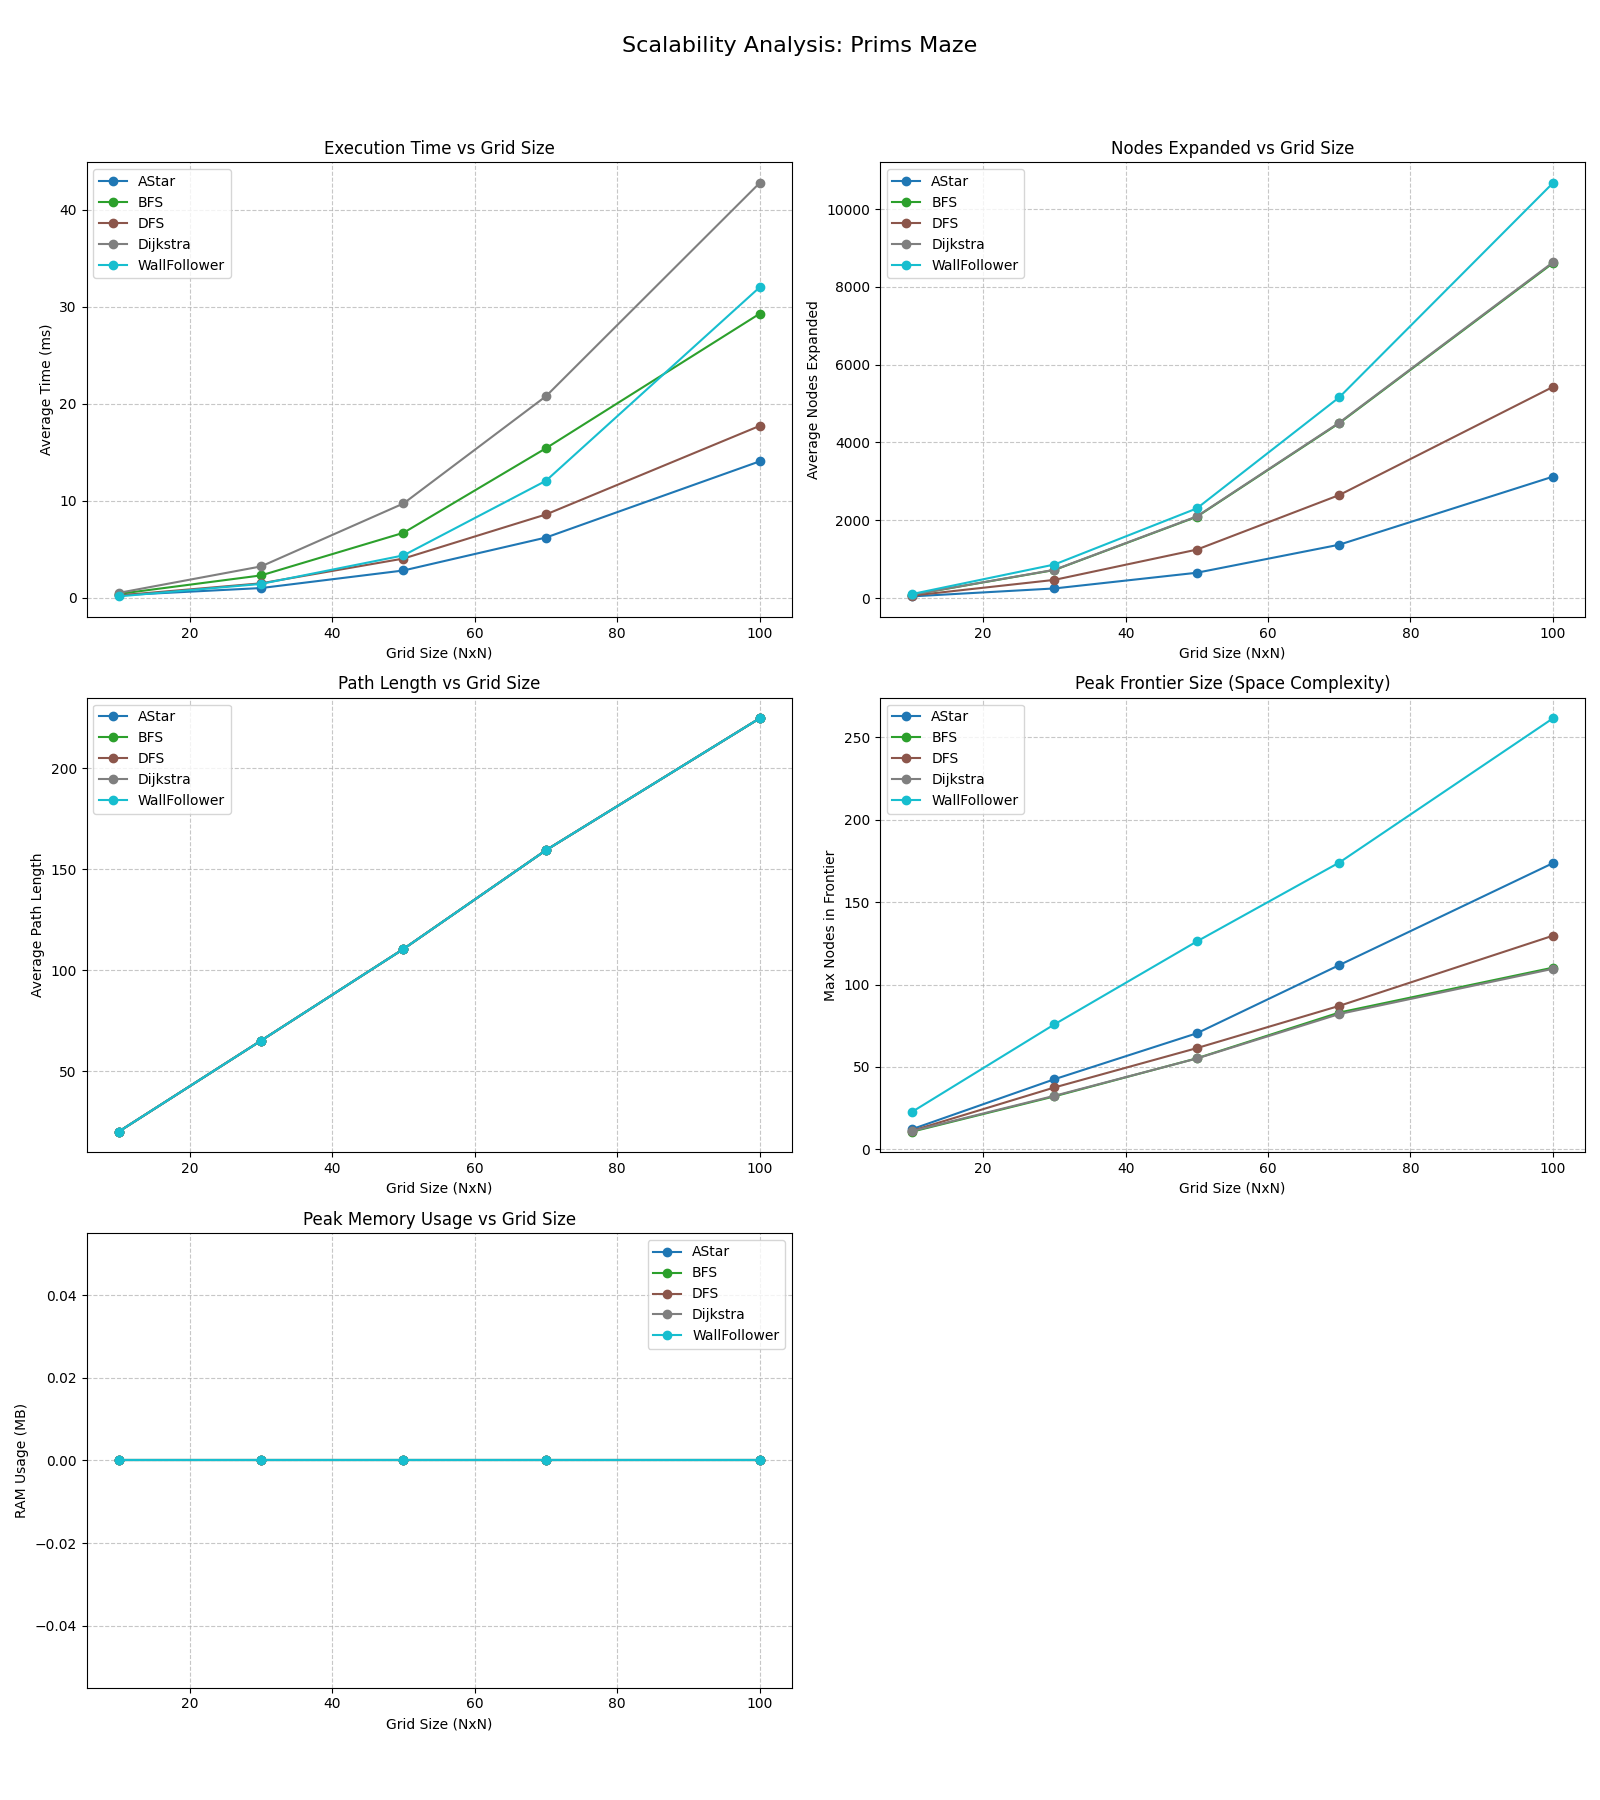
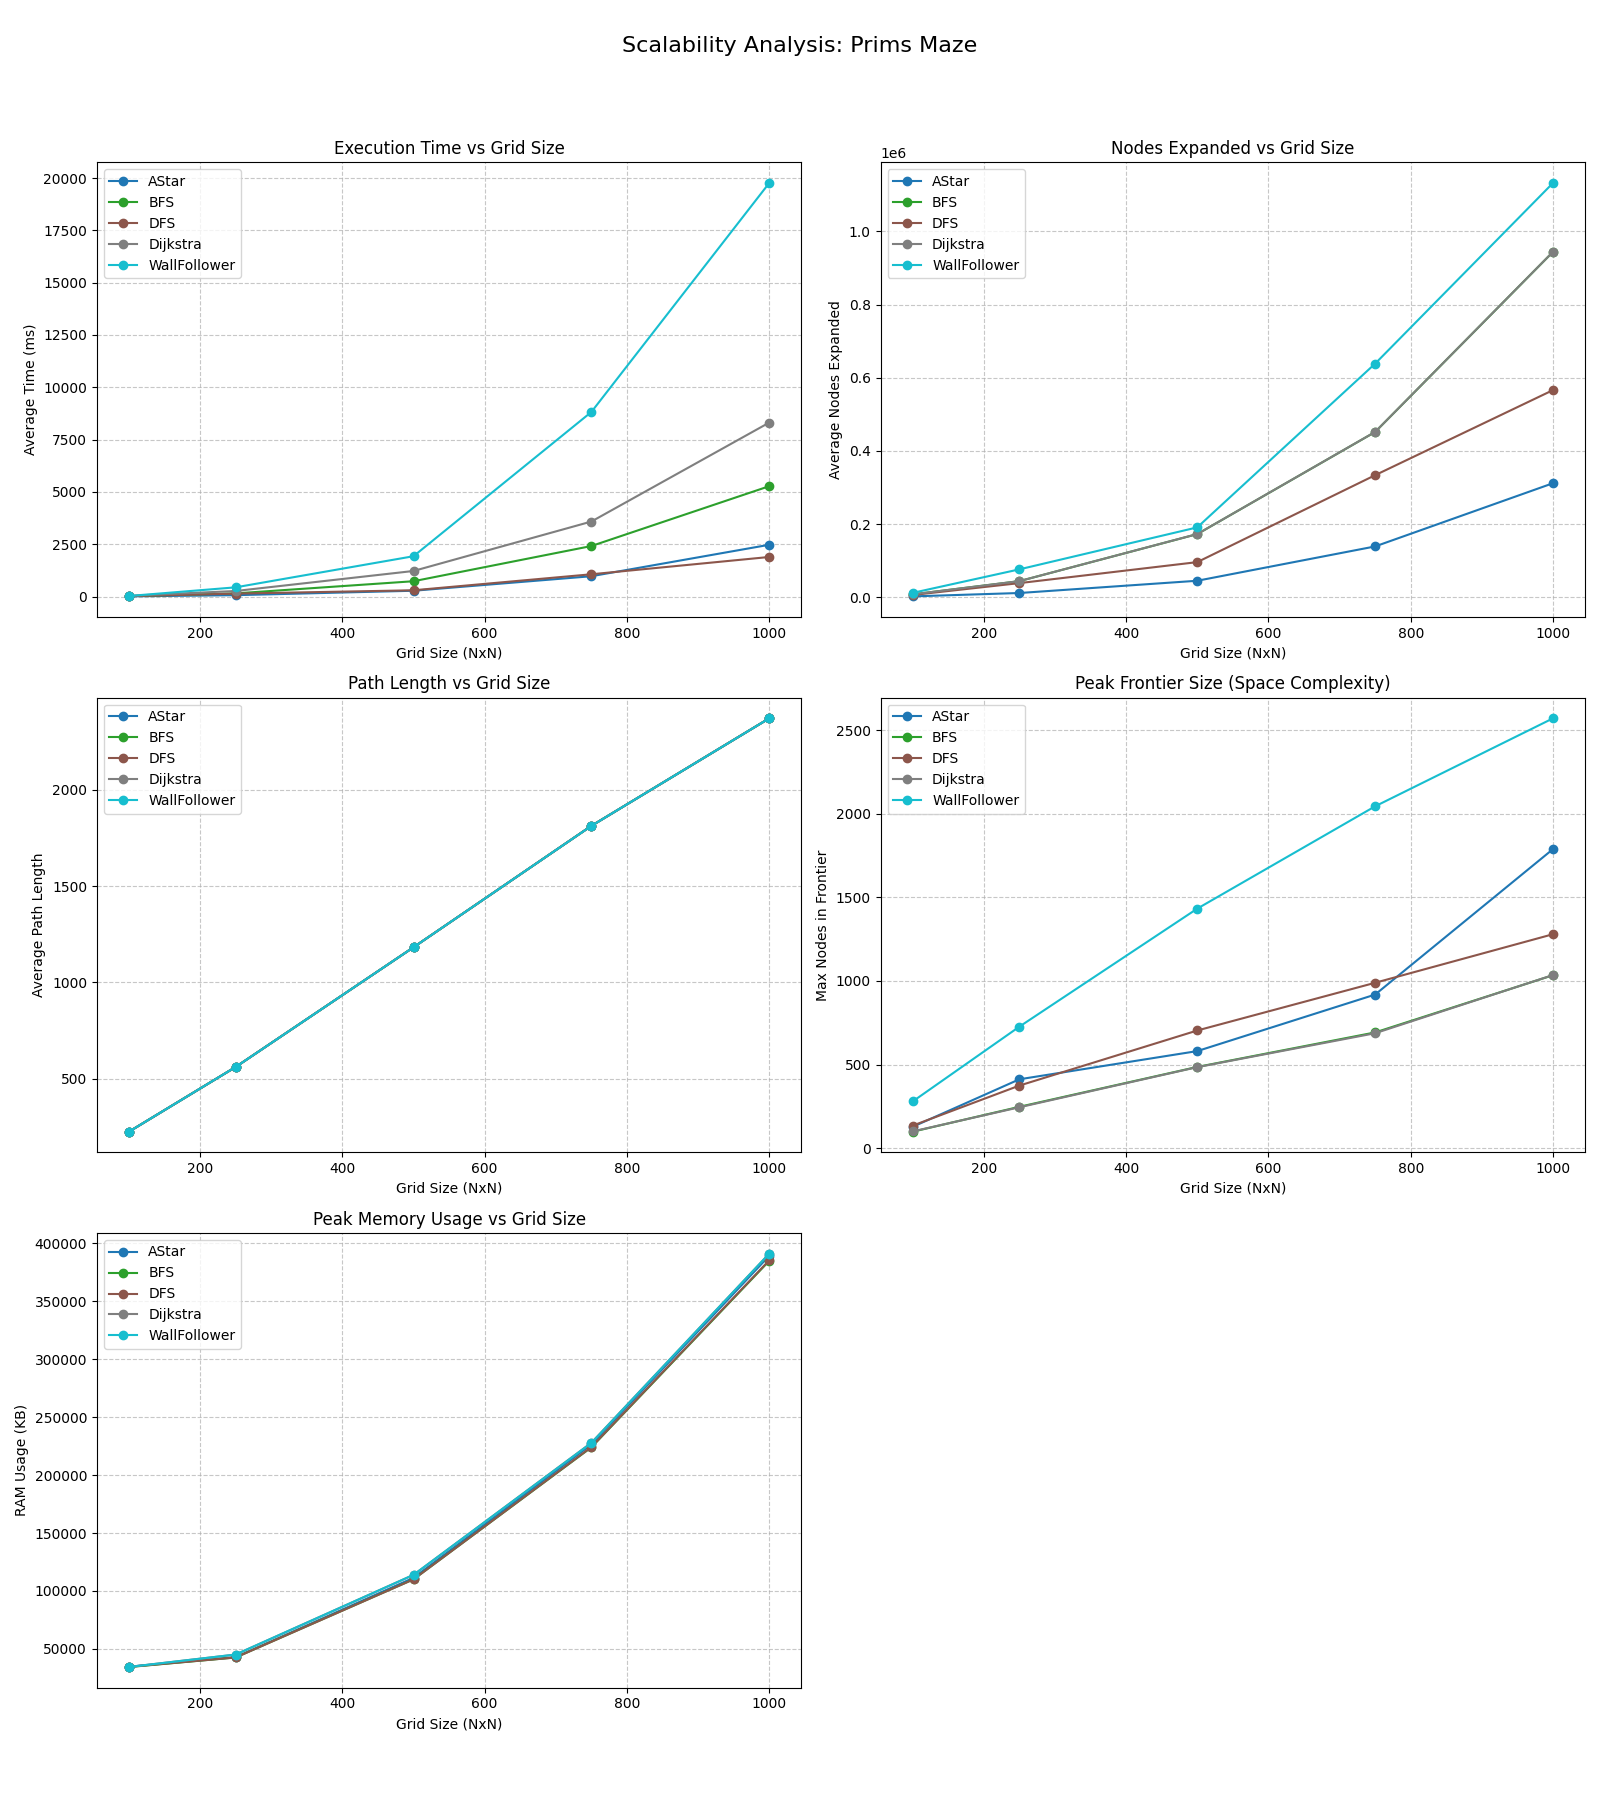
multiprocess benchmark

diff --git a/controller/app_controller.py b/controller/app_controller.py
@@ -1,3 +1,5 @@
+import os
+import psutil
 import pygame
 from model.grid import Grid
 from model.generators.recursive_backtracker import RecursiveBacktracker
@@ -15,6 +17,7 @@ class AppController:
         pygame.init()
         self.rows = rows
         self.cols = cols
+        self.process = psutil.Process(os.getpid())
         
         # Fixed Window Size
         self.WINDOW_WIDTH = 1280

diff --git a/benchmark_runner.py b/benchmark_runner.py
@@ -116,4 +116,4 @@ def run_benchmark(sizes=[100, 250, 500, 750, 1000], iterations=50):
 
 if __name__ == "__main__":
     # Testing sizes as requested
-    run_benchmark(sizes=[100, 250, 500, 750, 1000], iterations=25)
+    run_benchmark(sizes=[100, 250, 500, 750, 1000], iterations=5)
